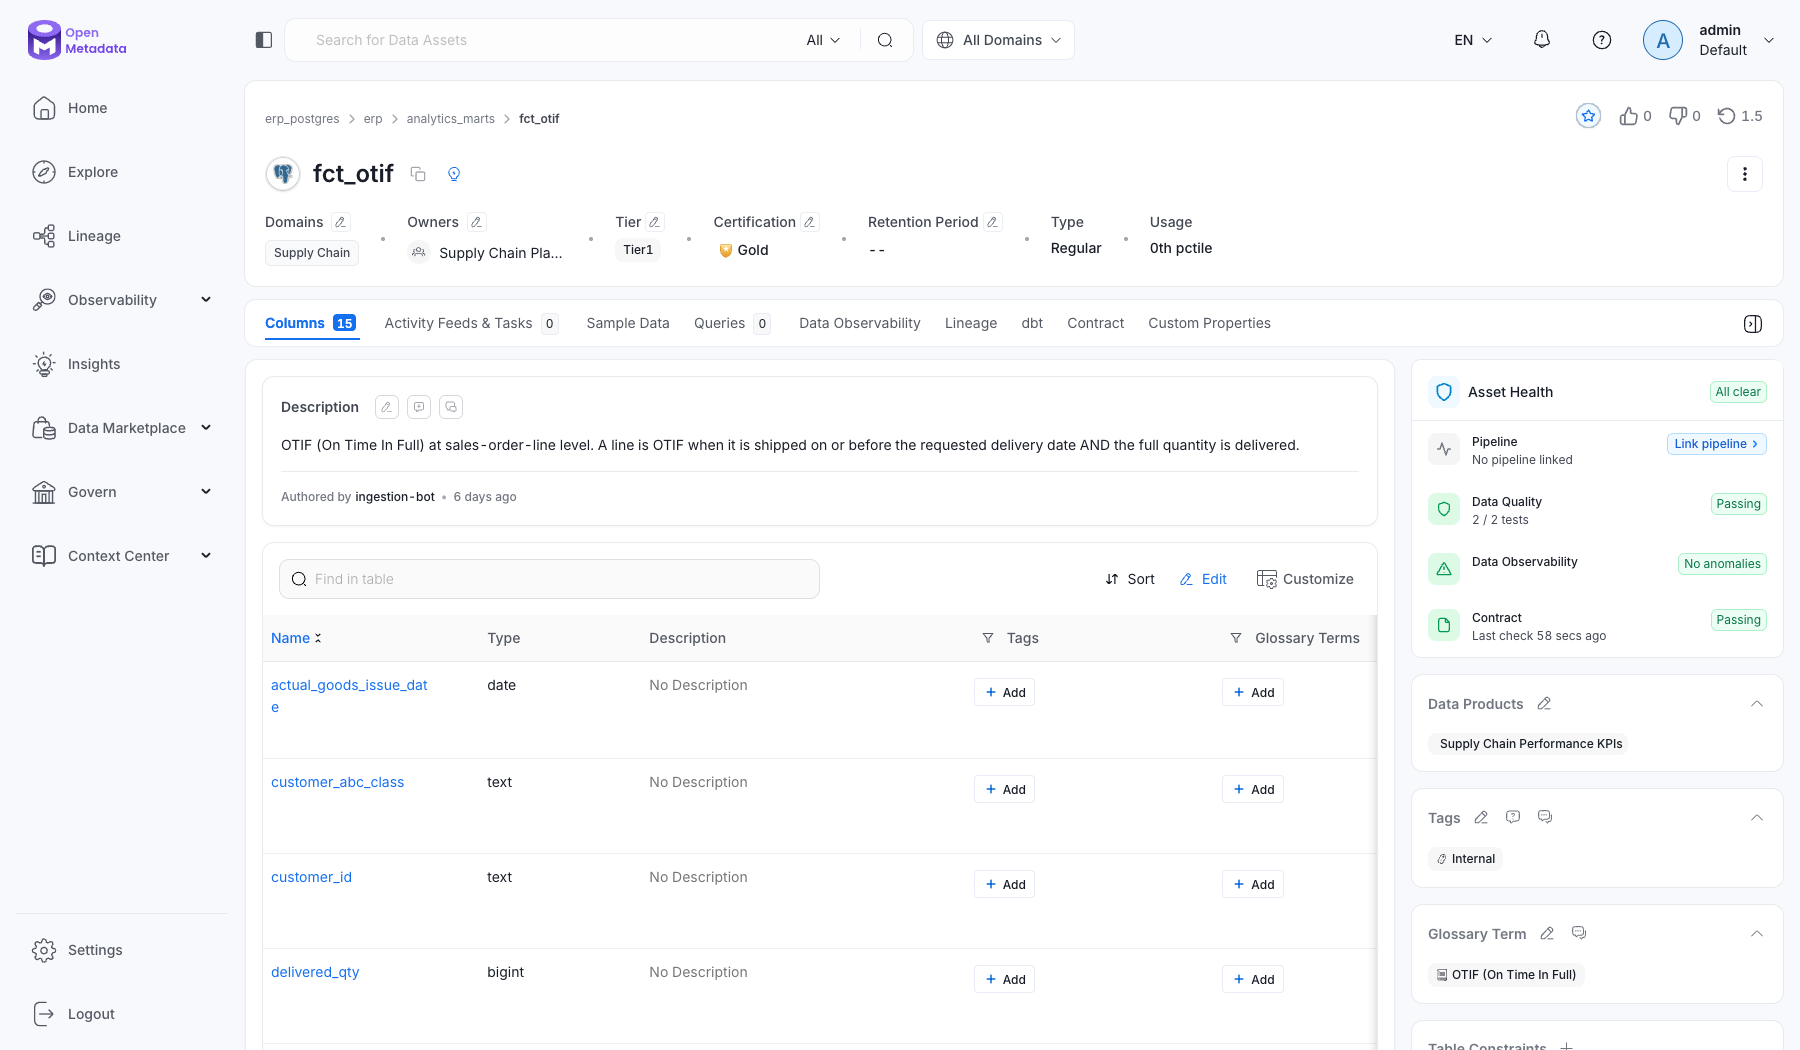
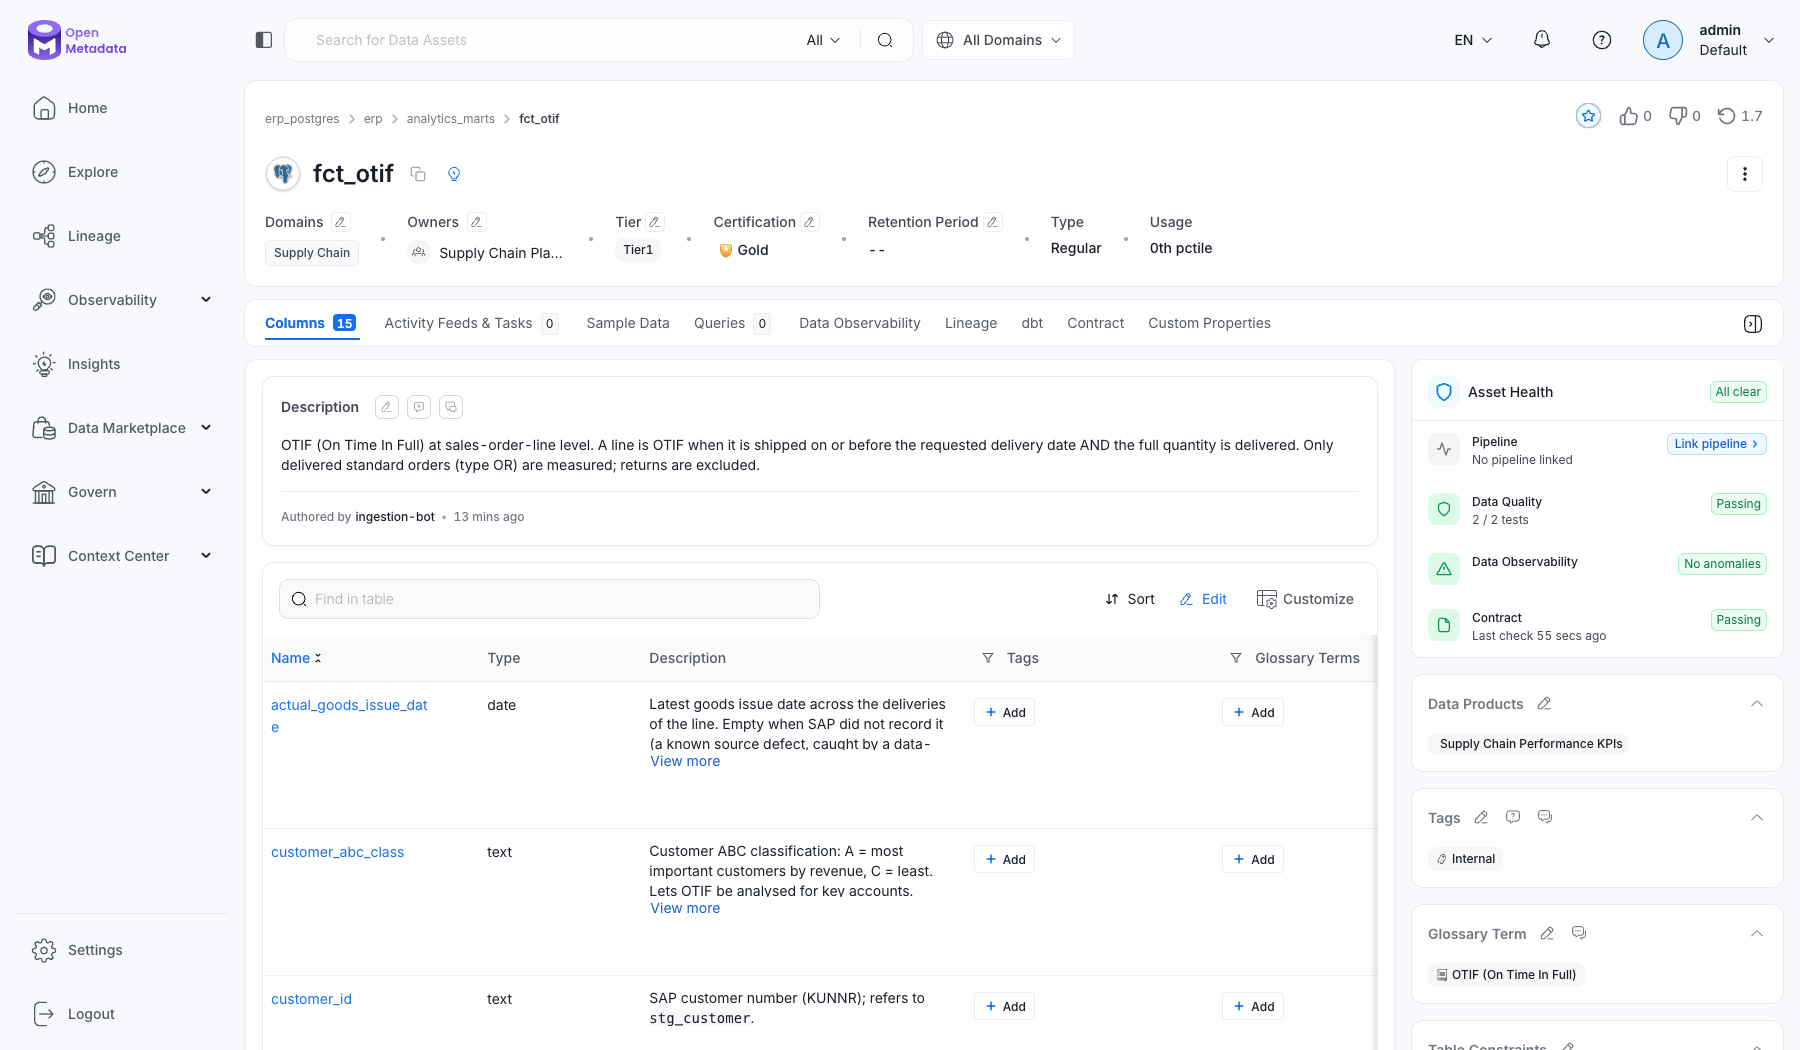
dbt unit tests for KPI logic, enforced model contracts, governance metadata in dbt docs
- Unit tests prove the OTIF rules and the forecast-accuracy formula on hand-made cases,
  including the integer-division case (plan 90, actual 100 must give 0.9)
- Certified marts enforce a dbt model contract with primary keys
- dbt docs show owner team, Tier, certification and glossary terms; CI checks they match governance.yaml
- Postgres ingestion overrides descriptions so the catalogue follows the code; screenshots retaken

diff --git a/scripts/validate_governance.py b/scripts/validate_governance.py
@@ -121,6 +121,26 @@ for u in GOV.get("demo_users", []):
     check(u["team"] in teams, f"user {u['name']}: team unknown")
     check(u["role"] in roles, f"user {u['name']}: role unknown")
 
+# dbt model metadata must mirror governance.yaml (the dbt docs demo shows it; drift would mislead)
+display = {t.get("displayName", t["name"]): t["name"] for t in GOV["glossary"]["terms"]}
+marts = yaml.safe_load((ROOT / "dbt/models/marts/_marts.yml").read_text())["models"]
+for mdl in marts:
+    key, where = f"analytics_marts.{mdl['name']}", f"dbt meta {mdl['name']}"
+    a, cfg = GOV["assets"].get(key), mdl.get("config", {})
+    meta = cfg.get("meta", {})
+    if a is None:
+        errors.append(f"{where}: model is not governed in governance.yaml")
+        continue
+    check(meta.get("owner_team") == a["owner"], f"{where}: owner_team differs from governance.yaml")
+    check(meta.get("tier") == a["tier"], f"{where}: tier differs from governance.yaml")
+    check(meta.get("confidentiality") == a["confidentiality"], f"{where}: confidentiality differs")
+    dbt_terms = sorted(display.get(t.strip(), "?" + t.strip()) for t in meta.get("glossary_terms", "").split(", ") if t.strip())
+    check(dbt_terms == sorted(a.get("glossary", [])), f"{where}: glossary terms {dbt_terms} differ from governance.yaml")
+    certified = bool(a.get("certified"))
+    check((meta.get("certification") == "Gold") == certified, f"{where}: certification differs from governance.yaml")
+    check(cfg.get("contract", {}).get("enforced", False) == certified,
+          f"{where}: certified models must enforce a dbt model contract (and only those)")
+
 # Dashboard
 d = GOV["dashboard"]
 check(d["owner"] in teams and d["domain"] in domains, "dashboard: owner or domain unknown")

diff --git a/scripts/check_dbt_results.py b/scripts/check_dbt_results.py
@@ -12,13 +12,16 @@ import sys
 
 ROOT = pathlib.Path(__file__).resolve().parents[1]
 EXPECTED_FAILURES = {  # test name prefix -> injected defect it must catch
-    "not_null_stg_delivery_line_actual_goods_issue_date": "25 deliveries without goods-issue date",
-    "non_negative_stg_stock_unrestricted_stock_qty": "2 storage locations with negative stock",
+    "not_null_stg_delivery_line_actual_goods_issue_date": "23 deliveries without goods-issue date",
+    "non_negative_stg_stock_unrestricted_stock_qty": "4 storage locations with negative stock",
     "relationships_stg_purchase_order_line_material_id": "1 purchase-order line for an unknown material",
 }
 
 results = json.loads((ROOT / "dbt/target/run_results.json").read_text())["results"]
+# Data tests ("test.<project>.<name>...") and unit tests ("unit_test.<project>.<model>.<name>"); all must pass
+# except the data tests that guard the injected defects.
 tests = {r["unique_id"].split(".")[2]: r["status"] for r in results if r["unique_id"].startswith("test.")}
+tests |= {"unit:" + r["unique_id"].split(".")[-1]: r["status"] for r in results if r["unique_id"].startswith("unit_test.")}
 problems = []
 for name, status in sorted(tests.items()):
     expected = next((d for p, d in EXPECTED_FAILURES.items() if name.startswith(p)), None)
@@ -32,4 +35,5 @@ problems += [f"expected test missing: {m}" for m in missing]
 if problems:
     print("\n".join(["FAILED:"] + problems))
     sys.exit(1)
-print(f"OK: {len(tests)} dbt tests, all 3 injected defects detected, no unexpected failures.")
+n_unit = sum(n.startswith("unit:") for n in tests)
+print(f"OK: {len(tests) - n_unit} data tests and {n_unit} unit tests, all 3 injected defects detected, no unexpected failures.")

diff --git a/scripts/apply_contracts.py b/scripts/apply_contracts.py
@@ -86,7 +86,8 @@ def apply():
 def validate(cid: str, attempts: int = 3) -> str:
     for _ in range(attempts):
         req("POST", f"/dataContracts/{cid}/validate")
-        for _ in range(30):
+        # On a freshly started stack the first quality pipeline can take a few minutes in Airflow.
+        for _ in range(72):  # up to 6 minutes
             time.sleep(5)
             r = req("GET", f"/dataContracts/{cid}/results/latest").json()
             if r.get("contractExecutionStatus") not in ("Running", "Queued"):

diff --git a/README.md b/README.md
@@ -9,7 +9,8 @@ measured governance scorecard**, built on [OpenMetadata](https://open-metadata.o
 Metabase, all kept as code and checked in CI.
 
 **Live demo (no install needed):** [dbt docs with models, columns, tests and the lineage graph](https://cesarrb.github.io/openmetadata-supply-chain-governance/#!/model/model.supply_chain_analytics.fct_otif?g_v=1),
-rebuilt by CI on every push. The link opens the OTIF fact table with its lineage back to the SAP tables.
+rebuilt by CI on every push. The link opens the OTIF fact table with its lineage back to the SAP tables; each
+certified table shows its owner team, Tier, Gold certification, glossary terms and enforced contract.
 The full OpenMetadata catalogue runs locally with Docker (see [Run it](#run-it)) and is shown in the
 [screenshots](#screenshots).
 
@@ -29,8 +30,8 @@ marts → dashboard (right). OpenMetadata derives it from dbt and from each char
 | **Lineage** | View SQL + dbt manifest + Metabase question SQL | ERP table → staging → mart → dashboard chart; 41 table edges, 182 column-level mappings |
 | **Classification** | Auto-classification + steward review in YAML | 5 personal-data columns tagged; 1 missed column added and 4 false positives rejected by the steward |
 | **Business glossary** | 13 approved terms (OTIF, Plan vs Actual, Days of Inventory, Safety Stock…) | Terms linked to the exact column that computes each KPI |
-| **Data quality** | OpenMetadata test runner (raw layer) + dbt tests (transformations) | 31 tests: 25 pass, and the 6 failures are exactly the 3 defects injected on purpose, caught at both layers; each failure opens an incident |
-| **Data contracts** | Schema, semantics, quality, SLA and security per certified table; exported as ODCS | 4 contracts, 4 passing validation |
+| **Data quality** | OpenMetadata test runner (raw layer) + dbt data tests (transformations) + dbt unit tests (KPI logic) | 31 data tests: 25 pass, and the 6 failures are exactly the 3 defects injected on purpose, caught at both layers; each failure opens an incident. 2 unit tests prove the OTIF and forecast-accuracy formulas on hand-made cases |
+| **Data contracts** | Consumer contract in OpenMetadata (schema, semantics, quality, SLA, security; exported as ODCS) + enforced dbt model contract with primary keys on the producer side | 4 contracts, 4 passing validation; dbt refuses to build a certified table whose columns or types drift |
 | **Access control** | One policy: Restricted data rows visible only to the owner team | Verified per persona with OpenMetadata's permission API |
 | **Ownership & trust** | 4 teams, 3 domains, 1 data product, Tier, Gold certification | 17 governed tables, 4 certified |
 | **Governance KPIs** | `scripts/scorecard.py` measures adoption from the API | [docs/SCORECARD.md](docs/SCORECARD.md) |
@@ -118,8 +119,10 @@ check CI runs.
 - **Contracts for what consumers depend on.** Only certified tables get contracts, and CI refuses a
   certification without one.
 - **Plausibility tests, not only validity tests.** A real integer-division bug pushed forecast accuracy
-  to 97 %. Every range test passed; the BI dashboard exposed it. A dedicated test now guards it
-  (see the operating model, section 7).
+  to 97 %. Every range test passed; the BI dashboard exposed it. A plausibility test and a unit test
+  that reproduces the exact case (plan 90, actual 100 must give 0.9, not 1.0) now guard it.
+- **One source of truth, checked.** Owners, Tier and glossary terms live in `governance.yaml`; the dbt
+  docs repeat them for readers, and CI fails if the two ever disagree.
 - **Governance as code, measured.** Ownership, glossary, contracts and policies go through pull requests;
   adoption KPIs are computed from the API, not typed into a slide.
 - **Laptop-friendly.** The ERP and Metabase databases share the Postgres container with OpenMetadata's
@@ -129,8 +132,9 @@ check CI runs.
 
 - OpenMetadata quirks found on the way: range tests (`columnValuesToBeBetween`) are rejected on Postgres
   `NUMERIC` columns without precision; contract SLA timezones accept only a fixed list; creating users
-  needs an admin principal (the ingestion bot is not one); and contract validation must wait until
-  Airflow has loaded the quality pipeline deployed on save.
+  needs an admin principal (the ingestion bot is not one); contract validation must wait until
+  Airflow has loaded the quality pipeline deployed on save; and re-ingesting a database does not refresh
+  descriptions it already holds unless `overrideMetadata` is on.
 - With Power BI or Tableau, the native OpenMetadata connector would replace the Metabase step; the
   governance model does not change.
 - Credentials in this repository are local demo defaults; nothing is exposed outside `localhost`.

diff --git a/docs/GOVERNANCE_MODEL.md b/docs/GOVERNANCE_MODEL.md
@@ -85,7 +85,7 @@ to [`contracts/`](../contracts):
 
 | Contract part | Content in this repo | Validated by OpenMetadata |
 |---|---|---|
-| Schema | The columns consumers may rely on, with types | Columns still exist with the same type |
+| Schema | The columns consumers may rely on, with types; also enforced on the producer side by a dbt model contract with primary keys | Columns still exist with the same type |
 | Semantics | Metadata rules: has owner, has description, has domain | Rules evaluated on the table |
 | Quality | The table's test cases (OpenMetadata and dbt) | All linked tests pass |
 | SLA | Refreshed daily, available by 06:00, latency under 1 day, 3-year retention | Shown to consumers |
@@ -93,6 +93,10 @@ to [`contracts/`](../contracts):
 
 Certified in this repo: `fct_otif`, `rpt_otif_monthly`, `fct_plan_vs_actual`, `fct_inventory_position`:
 **4 contracts, 4 passing**.
+
+The contract is enforced at both ends: OpenMetadata validates it for consumers, and on the producer side the
+dbt model contract (`contract: enforced`) stops the build if a column is renamed, dropped or changes type,
+and creates the primary key in Postgres, so duplicate rows cannot be loaded.
 
 ## 6. Access control
 
@@ -122,7 +126,8 @@ Three complementary layers:
 | Layer | Tool | Examples |
 |---|---|---|
 | Source (raw ERP) | OpenMetadata test runner | goods-issue date not null, stock not negative, PO material exists in material master, e-mail format |
-| Transformation | dbt tests (results ingested into OpenMetadata) | unique / not null keys, referential integrity, accepted values, KPI between 0 and 1, forecast accuracy not degenerate |
+| Transformation | dbt data tests (results ingested into OpenMetadata) | unique / not null keys, referential integrity, accepted values, KPI between 0 and 1, forecast accuracy not degenerate |
+| KPI logic | dbt unit tests on hand-made inputs | OTIF rules (on the day = on time, one day late = not, short = not in full, split deliveries added, returns excluded); forecast-accuracy formula incl. the integer-division case |
 | Pull request | GitHub Actions | rebuilds the warehouse, fails if a known defect stops being detected or anything else breaks, fails if any table or column lacks a description, validates governance YAML |
 
 Three defects are injected on purpose in the synthetic data: 23 deliveries without goods-issue date,
@@ -136,8 +141,9 @@ OTIF, so without the test the KPI would look better than it is.
 **A real bug the tests now guard against.** Changing quantities from `numeric` to `integer` made
 Postgres divide integers, and forecast accuracy came out at 97 % instead of 72 %. No range test
 noticed, because 0.97 is a valid ratio. Building the Metabase dashboard exposed it. The fix casts to
-`numeric`, and a new dbt test (`assert_forecast_accuracy_not_degenerate`) fails if accuracy is
-implausibly high. The lesson for the operating model: plausibility tests matter as much as validity tests.
+`numeric`; a dbt test (`assert_forecast_accuracy_not_degenerate`) fails if accuracy is implausibly
+high, and a unit test reproduces the exact case (plan 90, actual 100 must give 0.9; integer maths gives 1.0).
+Reintroducing the bug makes the unit test fail. The lesson for the operating model: plausibility tests matter as much as validity tests.
 
 ## 8. Onboarding a new domain (e.g. Quality Management, SAP QM)
 

diff --git a/docs/SCORECARD.md b/docs/SCORECARD.md
@@ -1,6 +1,6 @@
 # Governance Scorecard
 
-*Generated by `scripts/scorecard.py` from the live OpenMetadata API on 18 November 2026.*
+*Generated by `scripts/scorecard.py` from the live OpenMetadata API on 19 November 2026.*
 *Scope: 26 tables in `erp_postgres.erp`, of which 17 governed and 9 Tier 1.*
 
 | Area | KPI | Value | Detail | Target |
